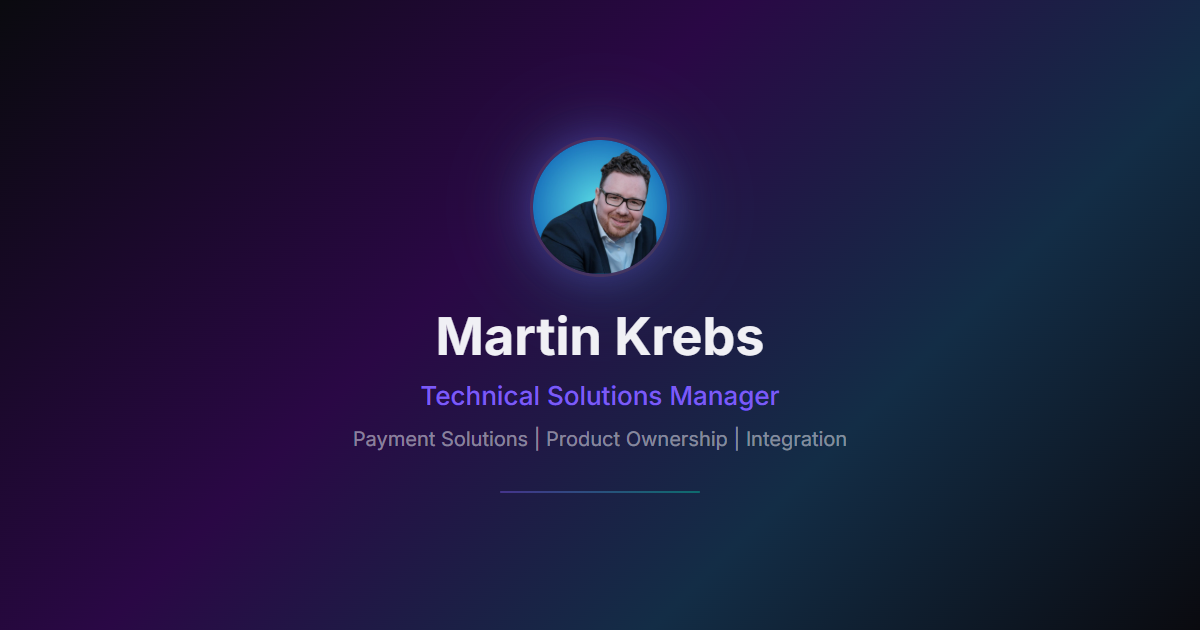
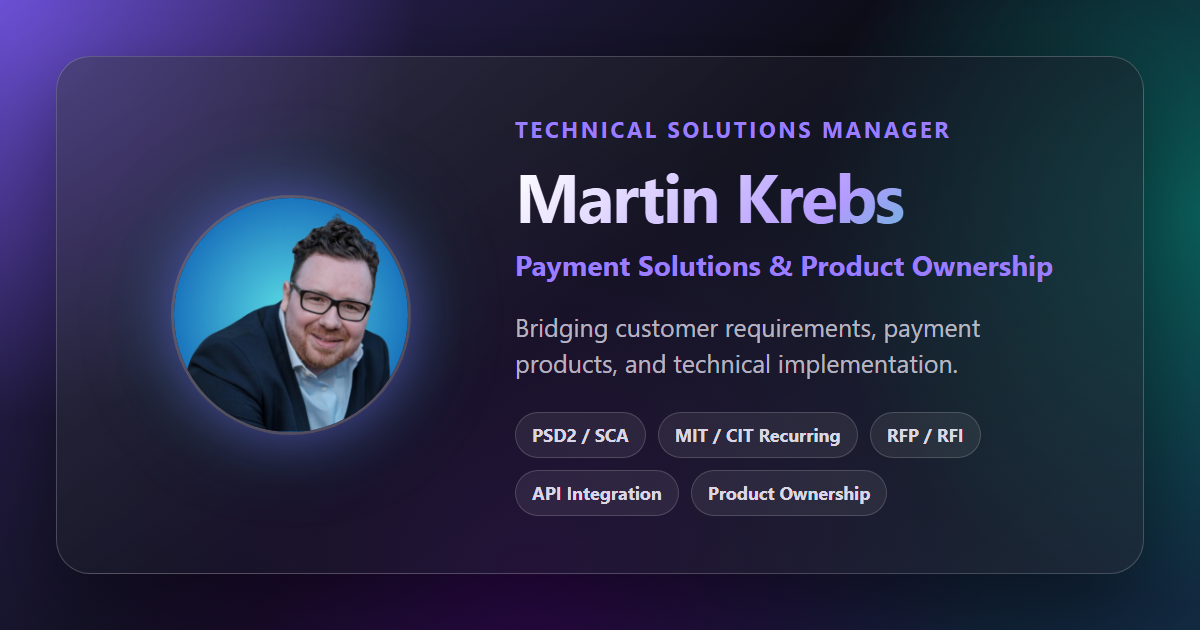
Update version, changelog, and OG image

diff --git a/content.js b/content.js
@@ -36,19 +36,21 @@ const CONTENT = {
     "Payment Solutions",
     "PSD2 / SCA",
     "MIT / CIT Recurring",
-    "API Integration",
-    "Agile / Scrum (PSM I)",
+    "API & Shop Systems",
+    "Technical Integration",
     "Product Ownership",
+    "Scrum / PSM I",
+    "Payment Product Launch",
     "RFP / RFI",
-    "Stakeholder Management",
-    "Key Account Support",
-    "Technical Documentation",
-    "Merchant Onboarding",
     "Requirements Engineering",
-    "Technical Support",
+    "Technical Documentation",
+    "Sales / Product / IT Coordination",
+    "Key Account Support",
+    "Merchant Onboarding",
     "Customer Workshops",
-    "Cross-functional Coordination",
-    "Web Development"
+    "Technical Support",
+    "Communication",
+    "Operational Improvements"
   ],
 
   "projects": [

diff --git a/CHANGELOG.md b/CHANGELOG.md
@@ -1,0 +1,29 @@
+# Changelog
+
+All notable changes to Flux Card are documented here.
+
+## v1.1.0
+
+### Added
+- Curated GitHub highlights section with repository cards, project tags, repo links, and live-demo links.
+- Auto / Dark / Light theme mode. Auto follows the system preference and reacts to system changes.
+- First-visit language detection based on browser language, defaulting to English unless German is detected.
+- Dedicated `projects` configuration in `content.js`.
+
+### Changed
+- Refined the blurple glassmorphism design with a fixed atmospheric gradient background.
+- Updated focus area icons to inline SVGs with theme-aware contrast.
+- Reworked the theme toggle auto icon as a vertically split light/dark circle.
+- Improved footer contrast in light mode.
+- Improved iOS Safari safe-area handling so the background extends into top and bottom browser areas.
+- Limited hover effects on top controls to mouse/trackpad devices to avoid sticky hover on touch screens.
+- Updated `og-image.png` to match the refreshed visual style.
+- Refined public skill tags and OG preview chips based on the profile PDF.
+
+### Documentation
+- Updated README features, editable content fields, version badge, and footer version.
+
+## v1.0.0
+
+- Initial release of Flux Card as a static, configurable digital business card.
+- Added glassmorphism layout, dark/light mode, multilingual content, social links, focus areas, skill tags, contact form, Open Graph metadata, and GitHub Pages support.

diff --git a/README.md b/README.md
@@ -3,7 +3,7 @@
 > A modular, single-page digital business card with glassmorphism design.
 > No server. No dependencies. Just edit one file and deploy.
 
-![Version](https://img.shields.io/badge/version-1.0.0-blueviolet)
+![Version](https://img.shields.io/badge/version-1.1.0-blueviolet)
 ![License](https://img.shields.io/badge/license-MIT-blue)
 ![Status](https://img.shields.io/badge/status-active-brightgreen)
 
@@ -127,10 +127,16 @@ Works in all modern browsers that support `backdrop-filter`.
 
 ---
 
+## Changelog
+
+See [CHANGELOG.md](CHANGELOG.md) for release notes.
+
+---
+
 ## License
 
 [MIT](LICENSE) — feel free to use, fork, and modify.
 
 ---
 
-<p align="center">Made with focus · Flux Card v1.0.0</p>
+<p align="center">Made with focus · Flux Card v1.1.0</p>
